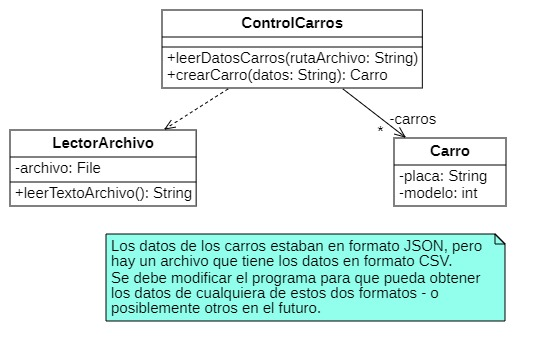
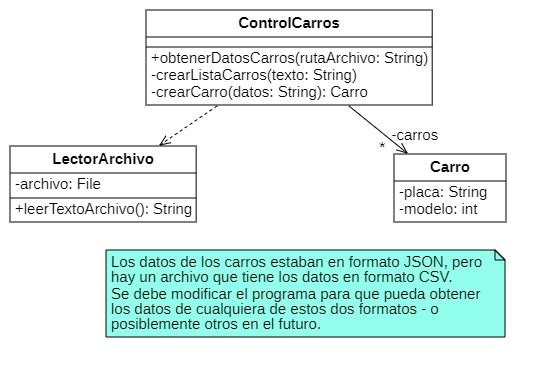
Solución propuesta strategy

Changed region(s): [[0.0, 0.0, 0.9341, 0.6077], [0.1868, 0.6381, 0.9341, 0.9116]]

diff --git a/src/strategy/solucion/ConvertidorJson.java b/src/strategy/solucion/ConvertidorJson.java
@@ -1,0 +1,55 @@
+package strategy.solucion;
+
+import java.util.ArrayList;
+import java.util.List;
+
+import org.json.JSONArray;
+import org.json.JSONException;
+import org.json.JSONObject;
+
+/**
+ * Permite convertir datos de carros que están en formato JSON
+ * a sus correspondientes objetos "Carro" en Java.
+ * 
+ * @version 1.0
+ */
+public class ConvertidorJson implements IConvertidorFormato {
+
+	/**
+	 * {@inheritDoc}
+	 * 
+	 * Los datos deben corresponder a un arreglo JSON.
+	 * Por ejemplo: [{"placa":"QUX-346","modelo":2020},{"placa":"HFY-974","modelo":2019}]
+	 */
+	@Override
+	public List<Carro> crearListaCarros(String texto) {
+		List<Carro> carros = new ArrayList<>();
+		try {
+			JSONArray arregloJson = new JSONArray(texto);
+			for (int i = 0; i < arregloJson.length(); i++) {
+				JSONObject objetoJson = arregloJson.getJSONObject(i);
+				Carro carro = crearCarro(objetoJson.toString());
+				carros.add(carro);
+			}
+		} catch (JSONException formatoIncorrecto) {
+			// En blanco a propósito. No se crean carros.
+		}
+		return carros;
+	}
+
+	
+	/**
+	 * {@inheritDoc}
+	 * 
+	 * La cadena debe estar en formato JSON con los datos de un Carro.
+	 *  Por ejemplo: {"placa":"QUX-346","modelo":2020}
+	 */
+	@Override
+	public Carro crearCarro(String datos) {
+		JSONObject objetoJson = new JSONObject(datos);
+		String placa = objetoJson.getString("placa");
+		int modelo = objetoJson.getInt("modelo");
+		return new Carro(placa, modelo);
+	}
+
+}

diff --git a/test/strategy/solucion/ControlCarrosTest.java b/test/strategy/solucion/ControlCarrosTest.java
@@ -1,14 +1,14 @@
-package strategy.inicial;
+package strategy.solucion;
 
 import static org.junit.jupiter.api.Assertions.*;
-import org.junit.jupiter.api.Test;
 import java.util.List;
+import org.junit.jupiter.api.Test;
 
 class ControlCarrosTest {
 
 	@Test
 	void testArchivoInexistente_CreaListaVacia() {
-		ControlCarros control = new ControlCarros();
+		ControlCarros control = new ControlCarros(new ConvertidorJson());
 		control.obtenerDatosCarros("INEXISTENTE");
 		List<Carro> carros = control.getCarros();
 		assertEquals(0, carros.size());
@@ -16,7 +16,7 @@ class ControlCarrosTest {
 	
 	@Test
 	void testFormatoIncorrecto_CreaListaVacia() {
-		ControlCarros control = new ControlCarros();
+		ControlCarros control = new ControlCarros(new ConvertidorJson());
 		control.obtenerDatosCarros("CarrosIncorrecto.json");
 		List<Carro> carros = control.getCarros();
 		assertEquals(0, carros.size());
@@ -24,7 +24,7 @@ class ControlCarrosTest {
 	
 	@Test
 	void testArchivoJson_CreaListaCarros() {
-		ControlCarros control = new ControlCarros();
+		ControlCarros control = new ControlCarros(new ConvertidorJson());
 		control.obtenerDatosCarros("Carros.json");
 		List<Carro> carros = control.getCarros();
 		String resultadoEsperado = "[[placa=QUX-346, modelo=2020], [placa=HFY-974, modelo=2019]]";
@@ -32,4 +32,5 @@ class ControlCarrosTest {
 		assertEquals(2, carros.size());
 		assertEquals(resultadoEsperado, carros.toString());
 	}
+
 }

diff --git a/src/strategy/solucion/ControlCarros.java b/src/strategy/solucion/ControlCarros.java
@@ -1,0 +1,44 @@
+package strategy.solucion;
+
+import java.util.ArrayList;
+import java.util.List;
+
+/**
+ * Clase que obtiene datos de un archivo para
+ * crear una lista de carros.
+ * 
+ * @version 1.0
+ */
+public class ControlCarros {
+	private List<Carro> carros;
+	private IConvertidorFormato convertidor;
+	
+	public ControlCarros(IConvertidorFormato convertidor) {
+		this.carros = new ArrayList<>();
+		this.convertidor = convertidor;
+	}
+	
+	List<Carro> getCarros() {
+		return carros;
+	}
+	
+	public void setConvertidor(IConvertidorFormato convertidor) {
+		this.convertidor = convertidor;
+	}
+	
+	/**
+	 * Crea un lector para obtener los datos de un archivo,
+	 * a partir de su ruta, y obtener los datos de los carros que tiene.
+	 * 
+	 * @param rutaArchivo la ruta completa del archivo,
+	 * 		con su nombre y extensión. Por ejemplo:
+	 *      C:\\UCaldas\\IngSw\\Patrones\\Carros.json
+	 */
+	public void obtenerDatosCarros(String rutaArchivo) {
+		LectorArchivo lector = new LectorArchivo(rutaArchivo);
+		String textoArchivo = lector.leerTextoArchivo();
+		if (textoArchivo != null) {
+			this.carros = convertidor.crearListaCarros(textoArchivo);
+		}
+	}
+}

diff --git a/src/strategy/inicial/ControlCarros.java b/src/strategy/inicial/ControlCarros.java
@@ -4,6 +4,7 @@ import java.util.ArrayList;
 import java.util.List;
 
 import org.json.JSONArray;
+import org.json.JSONException;
 import org.json.JSONObject;
 
 /**
@@ -43,15 +44,20 @@ public class ControlCarros {
 	 * A partir de un texto, que corresponde a un arreglo de objetos JSON,
 	 * se obtienen los datos de carros para crearlos
 	 * y guardarlos en la colección.
+	 * Si el texto no tiene el formato correcto, no se realiza ninguna acción.
 	 * 
 	 * @param texto  un arreglo JSON con datos de varios carros.
 	 */
 	private void crearListaCarros(String texto) {
-		JSONArray arregloJson = new JSONArray(texto);
-		for (int i = 0; i < arregloJson.length(); i++) {
-			JSONObject objetoJson = arregloJson.getJSONObject(i);
-			Carro carro = crearCarro(objetoJson.toString());
-			carros.add(carro);
+		try {
+			JSONArray arregloJson = new JSONArray(texto);
+			for (int i = 0; i < arregloJson.length(); i++) {
+				JSONObject objetoJson = arregloJson.getJSONObject(i);
+				Carro carro = crearCarro(objetoJson.toString());
+				carros.add(carro);
+			}
+		} catch (JSONException formatoIncorrecto) {
+			// En blanco a propósito. No se crean carros.
 		}
 	}
 	

diff --git a/src/strategy/solucion/IConvertidorFormato.java b/src/strategy/solucion/IConvertidorFormato.java
@@ -1,0 +1,33 @@
+package strategy.solucion;
+
+import java.util.List;
+
+/**
+ * Métodos para "convertir" un texto con datos de carros en 
+ * una lista de objetos Carro.
+ * 
+ * @version 1.0
+ */
+public interface IConvertidorFormato {
+
+	/**
+	 * A partir de un texto, que corresponde datos de varios carros,
+	 * se obtienen los datos para crear los objetos "Carro"
+	 * y guardarlos en una lista.
+	 * 
+	 * @param texto  un texto con datos de varios carros, en algún formato
+	 * 		(como JSON, CSV u otro).
+	 * @return una lista de carros creados con los datos.
+	 * 		Retorna una lista vacía	si el texto tenía el formato correcto.
+	 */
+	public List<Carro> crearListaCarros(String texto);
+	
+	
+	/**
+	 * Crea un objeto Carro a partir de los datos de un String.
+	 * 
+	 * @param datos cadena en un formato concreto con los datos de un Carro.
+	 * @return el objeto Carro creado a partir de los datos.
+	 */
+	public Carro crearCarro(String datos);
+}

diff --git a/src/strategy/solucion/LectorArchivo.java b/src/strategy/solucion/LectorArchivo.java
@@ -1,0 +1,43 @@
+package strategy.solucion;
+
+import java.io.File;
+import java.io.IOException;
+import java.nio.file.Files;
+import java.nio.file.Path;
+import java.nio.file.Paths;
+
+/**
+ * Clase relacionada con un archivo de texto, 
+ * para leer su contenido.
+ * 
+ * @version 1.0
+ */
+public class LectorArchivo {
+	
+	private File archivo;
+
+	public LectorArchivo(String rutaArchivo) {
+		this.archivo = new File(rutaArchivo);
+	}
+	
+	public LectorArchivo(File file) {
+		this.archivo = file;
+	}
+	
+	/**
+	 * En caso de ser un archivo pequeño, se puede leer todo 
+	 * en una sola instrucción.
+	 * 
+	 * @return el texto completo del archivo, como un solo String,
+	 * 			o null si no pudo leer el archivo.
+	 */
+	public String leerTextoArchivo() {
+		Path ruta = Paths.get(archivo.toURI());
+		try {
+			String texto = Files.readString(ruta);
+			return texto;
+		} catch (IOException e) {
+			return null;
+		}
+	}
+}

diff --git a/src/strategy/solucion/Carro.java b/src/strategy/solucion/Carro.java
@@ -1,0 +1,32 @@
+
+package strategy.solucion;
+
+/**
+ * Información básica de un vehículo, que puede estar originalmente
+ * en diferentes formatos (por venir de diferentes fuentes).
+ * 
+ * @version 1.0
+ */
+public class Carro {
+	
+	private String placa;
+	private int modelo;
+	
+	public Carro(String placa, int modelo) {
+		this.placa = placa;
+		this.modelo = modelo;
+	}
+
+	public String getPlaca() {
+		return placa;
+	}
+
+	public int getModelo() {
+		return modelo;
+	}
+
+	@Override
+	public String toString() {
+		return "[placa=" + placa + ", modelo=" + modelo + "]";
+	}
+}
